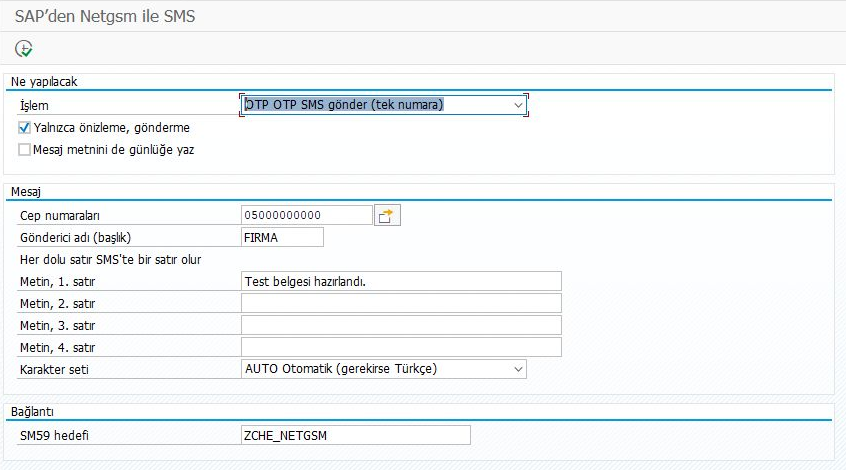
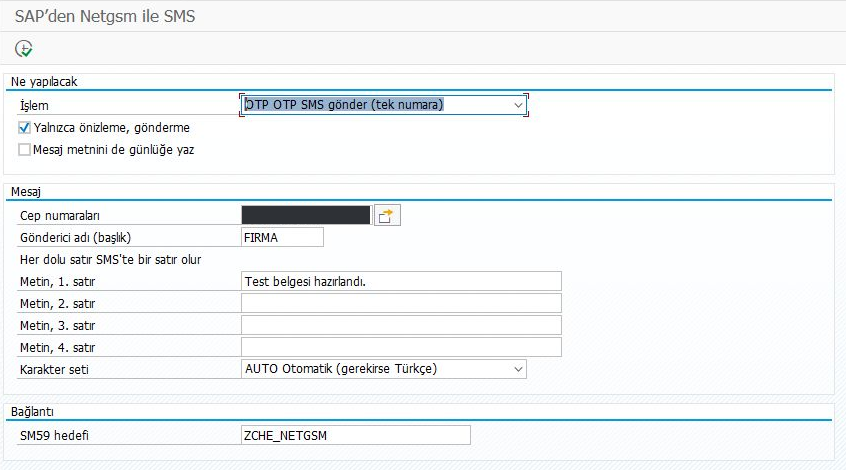
Prepare bilingual Netgsm guides and record A4H verification

Changed region(s): [[0.2766, 0.417, 0.461, 0.4766]]

diff --git a/README.md b/README.md
@@ -1,28 +1,39 @@
-# SAP’den Netgsm ile SMS
+# abap-sms-netgsm
 
-[English README](README.en.md) · [Türkçe kurulum ve kullanım rehberi](WALKTHROUGH.tr.md) · [English walkthrough](WALKTHROUGH.md)
+[English](README.md) · [Türkçe](README.tr.md)
 
-![abap-sms-netgsm kapağında SAP sunucusundan telefona giden SMS](docs/img/abap-sms-netgsm-cover.jpg)
+![abap-sms-netgsm sends a notification from SAP to a phone through Netgsm](docs/img/abap-sms-netgsm-cover.jpg)
 
-Bir belge hazır olduğunda ya da bir arka plan işi bittiğinde SAP’den SMS ile haber verebilirsiniz. `ZCHE_SMS_NETGSM` ile mesajı SAP’de hazırlayıp Netgsm üzerinden gönderirsiniz. İlk denemede **Yalnızca önizleme** seçeneğini açık bırakın. Böylece alıcıları, mesajın kaç parçaya bölüneceğini ve tahmini SMS kredisini gönderimden önce görürsünüz.
+When a document is ready in SAP, you can notify someone by SMS. Enter the recipients and message in `ZCHE_SMS_NETGSM`. The preview shows how many recipients have valid numbers and how many SMS parts the message will use.
 
-## Nereden başlamalı?
+- Copy one executable report into SE38 and activate it. No custom Data Dictionary objects are required.
+- The source targets SAP_BASIS 7.00 syntax for ECC 6.0 and fits within 72 columns per line.
+- Maintain the API user code and password in SM59. The report uses the destination and never reads the password.
 
-| Yapmak istediğiniz | Rehber |
+[English walkthrough](WALKTHROUGH.md) · [Türkçe kurulum rehberi](WALKTHROUGH.tr.md)
+
+[Prepare an example SMS in SAP](WALKTHROUGH.md#6-preview-then-send) · [See the recipient’s view](WALKTHROUGH.md#what-the-recipient-sees)
+
+## What do you want to do?
+
+| Goal | Where to start |
 |---|---|
-| İlk kez kurmak | [Netgsm hesabı, SAP programı ve bağlantı](WALKTHROUGH.tr.md#kurulum) |
-| Hesap bilgilerini kontrol etmek | [Gönderici adlarını ücretsiz listeleme](WALKTHROUGH.tr.md#baglanti-testi) |
-| İlk SMS’i hazırlamak | [A4H ekranlarıyla önizleme ve gönderim](WALKTHROUGH.tr.md#onizleme) |
-| Tek kullanımlık kod ya da şablonlu mesaj göndermek | [OTP SMS](WALKTHROUGH.tr.md#otp) · [Şablonlu SMS](WALKTHROUGH.tr.md#sablon) |
-| Bir gönderimi takip etmek veya planlanmış gönderimi iptal etmek | [Teslim raporu ve iptal](WALKTHROUGH.tr.md#takip) |
-| Gelen SMS’leri okumak veya bir gönderimin sayılarını görmek | [Gelen SMS](WALKTHROUGH.tr.md#gelen-sms) · [İş istatistikleri](WALKTHROUGH.tr.md#is-istatistikleri) |
-| Bir arka plan işinden SMS göndermek | [SM36 ile önizleme ve gönderim](WALKTHROUGH.tr.md#arka-plan) |
-| Mevcut ABAP programına SMS eklemek | [Çalıştırılabilir önizleme örneği](WALKTHROUGH.tr.md#kendi-programlarınızdan-kullanım) |
+| Prepare the Netgsm account and SAP connection | [Setup walkthrough](WALKTHROUGH.md) |
+| Prepare a message for one or more recipients, schedule it, or use a template | [Preview and send](WALKTHROUGH.md#6-preview-then-send) |
+| Send a one-time code | Choose the OTP SMS package and preview the request for one recipient. [Walkthrough](WALKTHROUGH.md) |
+| Check a delivery, read incoming SMS or view totals for a send | [Delivery report](WALKTHROUGH.md#6-preview-then-send) · [Incoming SMS](WALKTHROUGH.md#incoming-sms) · [Job statistics](WALKTHROUGH.md#job-statistics) |
+| Send from a background job | [Schedule a preview and send](WALKTHROUGH.md#background) |
+| Call the tool from my ABAP program | [PERFORM example with preview](WALKTHROUGH.md#use-it-from-your-programs) |
+| See what was tested with a real account | [Validation and limits](VALIDATION.md) |
 
-## SAP’de nasıl görünür?
+## First run
 
-A4H/001’de “Test belgesi hazırlandı.” metnini bir örnek numarayla önizledik. SAP bir geçerli alıcı, bir SMS parçası ve yaklaşık bir kredi hesapladı. Ekrandaki `DRY_RUN`, bu denemede SMS gönderilmediğini gösterir.
+1. **Netgsm.** Apply for a sender name early. The application requires documents and KEP submission, and approval can take days. Prepare the API sub-user password and allow the SAP server’s outbound IP.
+2. **SAP.** Activate the program in SE38. Configure the certificate chain in STRUST and the `ZCHE_NETGSM` connection in SM59. Templates also use `ZCHE_NETGSM_EXT`. [Program source](src/zche_sms_netgsm.prog.abap)
+3. **Free check.** In SA38 run `ZCHE_SMS_NETGSM` and list sender names. An empty list with `00` confirms that the connection works. Sends with an undefined sender name are rejected with `40`.
 
-![A4H’de Türkçe SMS önizlemesi. Maskeli alıcı, gönderilecek metin ve tahmini kredi aynı ekranda.](docs/img/S11-preview.png)
+## Validation
 
-**Doğrulama.** SAP iki Netgsm hedefine bağlandı, şablon listesini okudu ve karakter sayımını sorguladı. Test hesabında onaylı gönderici adı bulunmadığı için telefona teslim doğrulanamadı. OTP düzeltmesini içeren 51 birim testi yerelde geçti. Önceki A4H çalıştırmasında 50 test geçmişti. [Test sonuçları](VALIDATION.tr.md) · [Değişiklikler](CHANGELOG.md) · [MIT lisansı](LICENSE)
+All 51 ABAP Unit tests passed on A4H (client 001, SAP_BASIS 816). An OTP preview on the same system omitted the code and request body. A real Netgsm account verified both HTTPS connections, template listing and character counting. Delivery to a phone remains unverified because that account had no approved sender name. [Test results](VALIDATION.md) · [Changes](CHANGELOG.md) · [MIT license](LICENSE)
+
+SAP and Netgsm are trademarks of their respective owners. This project is not affiliated with or endorsed by either.

diff --git a/README.tr.md b/README.tr.md
@@ -1,3 +1,36 @@
 # SAP’den Netgsm ile SMS
 
-[Türkçe proje özeti](README.md) · [Ekran görüntülü kurulum ve kullanım rehberi](WALKTHROUGH.tr.md) · [Test sonuçları](VALIDATION.tr.md)
+[English](README.md) · [Türkçe](README.tr.md)
+
+![abap-sms-netgsm kapağında SAP sunucusundan telefona giden SMS](docs/img/abap-sms-netgsm-cover.jpg)
+
+Bir belge hazır olduğunda ya da bir arka plan işi bittiğinde SAP’den SMS ile haber verebilirsiniz. `ZCHE_SMS_NETGSM` ile mesajı SAP’de hazırlayıp Netgsm üzerinden gönderirsiniz. İlk denemede **Yalnızca önizleme** seçeneğini açık bırakın. Böylece alıcıları, mesajın kaç parçaya bölüneceğini ve tahmini SMS kredisini gönderimden önce görürsünüz.
+
+- SE38’e tek bir yürütülebilir program kopyalayıp etkinleştirin. Özel Veri Sözlüğü (DDIC) nesnesi gerekmiyor.
+- Kaynak, ECC 6.0 için SAP_BASIS 7.00 sözdizimini hedefler. Her satır en fazla 72 sütundur.
+- API kullanıcı kodunu ve şifreyi yalnızca SM59’a girin. Program hedefi kullanır ve şifreyi okumaz.
+
+[Türkçe kurulum rehberi](WALKTHROUGH.tr.md) · [English walkthrough](WALKTHROUGH.md)
+
+## Nereden başlamalı?
+
+| Yapmak istediğiniz | Rehber |
+|---|---|
+| İlk kez kurmak | [Netgsm hesabı, SAP programı ve bağlantı](WALKTHROUGH.tr.md#kurulum) |
+| Hesap bilgilerini kontrol etmek | [Gönderici adlarını ücretsiz listeleme](WALKTHROUGH.tr.md#baglanti-testi) |
+| İlk SMS’i hazırlamak | [A4H ekranlarıyla önizleme ve gönderim](WALKTHROUGH.tr.md#onizleme) |
+| Tek kullanımlık kod ya da şablonlu mesaj göndermek | [OTP SMS](WALKTHROUGH.tr.md#otp) · [Şablonlu SMS](WALKTHROUGH.tr.md#sablon) |
+| Bir gönderimi takip etmek veya planlanmış gönderimi iptal etmek | [Teslim raporu ve iptal](WALKTHROUGH.tr.md#takip) |
+| Gelen SMS’leri okumak veya bir gönderimin sayılarını görmek | [Gelen SMS](WALKTHROUGH.tr.md#gelen-sms) · [İş istatistikleri](WALKTHROUGH.tr.md#is-istatistikleri) |
+| Bir arka plan işinden SMS göndermek | [SM36 ile önizleme ve gönderim](WALKTHROUGH.tr.md#arka-plan) |
+| Mevcut ABAP programına SMS eklemek | [Çalıştırılabilir önizleme örneği](WALKTHROUGH.tr.md#kendi-programlarınızdan-kullanım) |
+
+## SAP’de nasıl görünür?
+
+A4H/001’de “Test belgesi hazırlandı.” metnini bir örnek numarayla önizledik. SAP bir geçerli alıcı, bir SMS parçası ve yaklaşık bir kredi hesapladı. Ekrandaki `DRY_RUN`, bu denemede SMS gönderilmediğini gösterir.
+
+![A4H’de Türkçe SMS önizlemesi. Maskeli alıcı, gönderilecek metin ve tahmini kredi aynı ekranda.](docs/img/S11-preview.png)
+
+**Doğrulama.** SAP iki Netgsm hedefine bağlandı, şablon listesini okudu ve karakter sayımını sorguladı. Test hesabında onaylı gönderici adı bulunmadığı için telefona teslim doğrulanamadı. A4H’de (istemci 001, SAP_BASIS 816) 51 ABAP Unit testinin tamamı geçti. Aynı sistemde OTP önizlemesi kodu ve istek gövdesini göstermedi. [Test sonuçları](VALIDATION.tr.md) · [Değişiklikler](CHANGELOG.md) · [MIT lisansı](LICENSE)
+
+SAP ve Netgsm, sahiplerinin ticari markalarıdır. Bu proje ikisiyle de bağlantılı değildir ve onlar tarafından onaylanmamıştır.

diff --git a/VALIDATION.tr.md b/VALIDATION.tr.md
@@ -1,18 +1,19 @@
 # Netgsm test sonuçları
 
-[English](VALIDATION.md) · [Ana sayfa](README.md) · [Kurulum ve kullanım](WALKTHROUGH.tr.md)
+[English](VALIDATION.md) · [Ana sayfa](README.tr.md) · [Kurulum ve kullanım](WALKTHROUGH.tr.md)
 
 A4H/001’de (SAP_BASIS 816) SMS önizlemesi ve Netgsm hesabına bağlantı doğrulandı. Hesabın onaylı gönderici adı yoktu. Gerçek OTP denemesinde Netgsm `40` döndürdü. Telefona SMS ulaşmadı ve bu deneme için ücret alınmadı.
 
 ## OTP günlük testi
 
-20 Kasım 2026’da 51 birim testi Open ABAP çalıştırıcısı ve sahte Netgsm bağlantısıyla yerelde geçti. Yeni test önceki kodda başarısız oldu. Üç ek kontrolde uygulama günlüğüne iletilen satırlar incelendi. Metin kaydı açıkken OTP metni gizli kaldı ve standart SMS metni kaydedildi. Kayıt kapalıyken standart SMS metni de yazılmadı. Bu çalıştırmada Netgsm’e istek gönderilmedi. Aşağıdaki SAP sonuçları önceki sürüme aittir.
+20 Kasım 2026’da 51 birim testi Open ABAP çalıştırıcısı ve sahte Netgsm bağlantısıyla yerelde geçti. Yeni test önceki kodda başarısız oldu. Üç ek kontrolde uygulama günlüğüne iletilen satırlar incelendi. Metin kaydı açıkken OTP metni gizli kaldı ve standart SMS metni kaydedildi. Kayıt kapalıyken standart SMS metni de yazılmadı. Bu çalıştırmada Netgsm’e istek gönderilmedi. Aynı gün `086925f` sürümü A4H/001’de (SAP_BASIS 816) uyarısız etkinleştirildi. 51 ABAP Unit testinin tamamı geçti.
 
 ## SAP’de görülen sonuçlar
 
 | Kontrol | Gözlenen sonuç |
 |---|---|
-| ABAP Unit | Beş sınıftaki 50 test geçti. Testler HTTP yanıtlarını taklit eder. [Test özeti](docs/img/S02-abap-unit.png) |
+| ABAP Unit | Beş sınıftaki 51 test geçti. Testler HTTP yanıtlarını taklit eder. [A4H test kaydı](https://github.com/Cheditte/abap-sms-netgsm/pull/5) |
+| Metin kaydı seçiliyken OTP önizlemesi | `DRY_RUN` döndü. Liste bir maskeli alıcı ve bir parça gösterdi. OTP metni ve istek gövdesi listede yer almadı. |
 | SMS önizlemesi | `FIRMA` için `DRY_RUN`, bir geçerli alıcı ve bir SMS parçası. Sonuç ekranında numara maskeli. [Önizleme](docs/img/S11-preview.png) |
 | Tek tarihli teslim raporu | Program ikinci tarihi istedi ve `BAD_INPUT` döndürdü. [Rapor ekranı](docs/img/S25-report-one-date.png) |
 | Var olmayan işi iptal | Netgsm, örnek `123` iş numarası için `60` döndürdü. [İptal sonucu](docs/img/S23-cancel-unknown-job.png) |

diff --git a/VALIDATION.md b/VALIDATION.md
@@ -1,18 +1,19 @@
 # Netgsm validation results
 
-[Türkçe](VALIDATION.tr.md) · [Overview](README.en.md) · [Setup and usage](WALKTHROUGH.md)
+[Türkçe](VALIDATION.tr.md) · [Overview](README.md) · [Setup and usage](WALKTHROUGH.md)
 
 Tests in A4H client 001 (SAP_BASIS 816) verified the SMS preview and the connection to Netgsm. The test account had no approved sender name. Netgsm returned `40` for the live OTP attempt. No SMS reached the phone and the attempt incurred no charge.
 
 ## OTP logging regression
 
-On 20 November 2026 all 51 unit tests passed locally using the Open ABAP runtime and a simulated Netgsm backend. The new test failed on the previous implementation. Three additional checks captured the messages passed to the application log. With text logging enabled, the OTP body was absent and ordinary SMS text was present. With logging disabled, ordinary SMS text was also absent. This run did not contact Netgsm. The SAP results below are from the earlier build.
+On 20 November 2026 all 51 unit tests passed locally using the Open ABAP runtime and a simulated Netgsm backend. The new test failed on the previous implementation. Three additional checks captured the messages passed to the application log. With text logging enabled, the OTP body was absent and ordinary SMS text was present. With logging disabled, ordinary SMS text was also absent. This run did not contact Netgsm. Commit `086925f` was activated without warnings on A4H/001 (SAP_BASIS 816) the same day. All 51 ABAP Unit tests passed.
 
 ## Results observed in SAP
 
 | Check | Observed result |
 |---|---|
-| ABAP Unit | All 50 tests across five classes passed using simulated HTTP responses. [Test summary](docs/img/S02-abap-unit.png) |
+| ABAP Unit | All 51 tests across five classes passed using simulated HTTP responses. [A4H test record](https://github.com/Cheditte/abap-sms-netgsm/pull/5) |
+| OTP preview with text logging selected | `DRY_RUN`. The result showed one masked recipient and one part. The OTP text and request body were absent. |
 | SMS preview | `DRY_RUN` for sender `FIRMA`, one valid recipient and one SMS part. The result masks the recipient’s number. [Preview](docs/img/S11-preview.png) |
 | Delivery report with one date | The program requested the second date and returned `BAD_INPUT`. [Report screen](docs/img/S25-report-one-date.png) |
 | Cancel a nonexistent job | Netgsm returned `60` for the sample job ID `123`. [Cancellation result](docs/img/S23-cancel-unknown-job.png) |

diff --git a/WALKTHROUGH.tr.md b/WALKTHROUGH.tr.md
@@ -1,6 +1,6 @@
 # SAP’den Netgsm ile SMS
 
-[English](WALKTHROUGH.md) · [Ana sayfa](README.md) · [Test sonuçları](VALIDATION.tr.md)
+[English](WALKTHROUGH.md) · [Ana sayfa](README.tr.md) · [Test sonuçları](VALIDATION.tr.md)
 
 SAP mesajı hazırlar ve SM59’da tanımlı bağlantı üzerinden Netgsm’e iletir. Netgsm de SMS’i alıcıya gönderir. İlk kurulumda gönderici adı başvurusunu erken başlatın. Onayı beklerken bağlantıyı sınayabilir ve SAP’de ücretsiz önizleme yapabilirsiniz.
 
@@ -11,11 +11,6 @@ SAP mesajı hazırlar ve SM59’da tanımlı bağlantı üzerinden Netgsm’e il
 <a id="kurulum"></a>
 
 ### 1. Netgsm hesabını hazırlayın
-
-<picture>
-  <source media="(prefers-color-scheme: dark)" srcset="docs/img/netgsm-light.svg">
-  <img src="docs/img/netgsm.svg" width="128" alt="Netgsm">
-</picture>
 
 1. **Gönderici adı.** Ana hesapta **SMS → SMS Ayarları → Gönderici Adlarım** sayfasını açın. Başvuru belge yükleme ve KEP üzerinden iletim ister. Test hesabında kimlik ve yetki yazısı da istendi. Onay günler sürebilir. Onaylanan adı SAP’ye aynı yazımla girin. Abone numarasını gönderici adı olarak kullanan OTP denemesi `40` döndürdü.
 2. **Paket.** Standart ve şablonlu iletiler için Toplu SMS, tek numaraya tek parçalık kod için OTP SMS kullanılır.
@@ -263,4 +258,3 @@ Netgsm'in iki SMS API'si var. Yeni olan v3, token almak için şifrenin bir JSON
 - Netgsm dokümanı (REST v2): <https://www.netgsm.com.tr/dokuman/>
 - Netgsm SMS API v3 dokümanı: <https://api-docs.netgsm.com.tr/>
 - [Tasarım kararları](DESIGN.md)
-- [Netgsm logosunun resmî kaynağı](https://cdn.netgsm.com.tr/images/logos/netgsm/dark/netgsm-logo.svg)

diff --git a/WALKTHROUGH.md b/WALKTHROUGH.md
@@ -1,17 +1,12 @@
 # Send SMS from SAP through Netgsm
 
-[Türkçe](WALKTHROUGH.tr.md) · [Overview](README.en.md) · [Validation](VALIDATION.md)
+[Türkçe](WALKTHROUGH.tr.md) · [Overview](README.md) · [Validation](VALIDATION.md)
 
 Apply for a sender name first. While approval is pending, you can test the connection and preview a message for free.
 
 ![SAP uses its SM59 destination to call Netgsm over HTTPS. Netgsm forwards the message to the phone as an SMS.](docs/img/netgsm-sms-flow.webp)
 
 ### 1. Prepare the Netgsm account
-
-<picture>
-  <source media="(prefers-color-scheme: dark)" srcset="docs/img/netgsm-light.svg">
-  <img src="docs/img/netgsm.svg" width="128" alt="Netgsm">
-</picture>
 
 1. **Sender name.** In the main account open **SMS → SMS Ayarları → Gönderici Adlarım**. Apply with supporting documents and submit the form via KEP (registered electronic mail). The test account was asked for proof of identity and authority. Approval can take days. Enter the approved spelling in SAP. An OTP request using the subscriber number as the sender returned `40`.
 2. **Package.** Bulk SMS covers standard and template messages. OTP SMS is for a single-part code to one number.
@@ -230,4 +225,3 @@ Netgsm has two SMS APIs. The newer v3 wants the password in a JSON body to get a
 - Netgsm documentation (REST v2): <https://www.netgsm.com.tr/dokuman/>
 - Netgsm SMS API v3 documentation: <https://api-docs.netgsm.com.tr/>
 - [DESIGN.md](DESIGN.md): design decisions, in Turkish
-- [Official Netgsm logo artwork](https://cdn.netgsm.com.tr/images/logos/netgsm/dark/netgsm-logo.svg)

diff --git a/CHANGELOG.md b/CHANGELOG.md
@@ -2,7 +2,8 @@
 
 ## Henüz yayımlanmayanlar
 
-- OTP metni, eski varyantlarda günlük seçeneği açıkken de SAP uygulama günlüğünden ve önizleme çıktısından çıkarıldı. Netgsm hata ayrıntıları OTP içeriğini geri yansıtamaz. Standart SMS için isteğe bağlı metin kaydı sürüyor.
+- OTP metni, eski varyantlarda metin kaydı açıkken bile SAP uygulama günlüğüne, sonuç listesine ve bu listenin makara (spool) çıktısına yazılmaz. Standart SMS için isteğe bağlı metin kaydı sürüyor.
+- SAP_BASIS 7.00 için iç içe metot çağrısı bir ara değişken kullanacak şekilde düzeltildi. [`086925f`](https://github.com/Cheditte/abap-sms-netgsm/commit/086925f50fe9a4e86f0c916721c6df2b2fbb7c03)
 
 - Türkçe ve İngilizce kurulum rehberlerine A4H ekranları, temsili telefon görünümü ve gerçek Netgsm hesabıyla yapılan kontroller eklendi.
 
